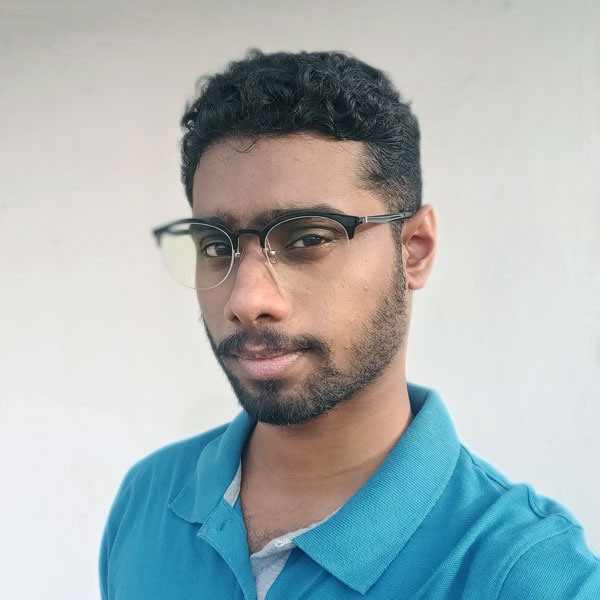
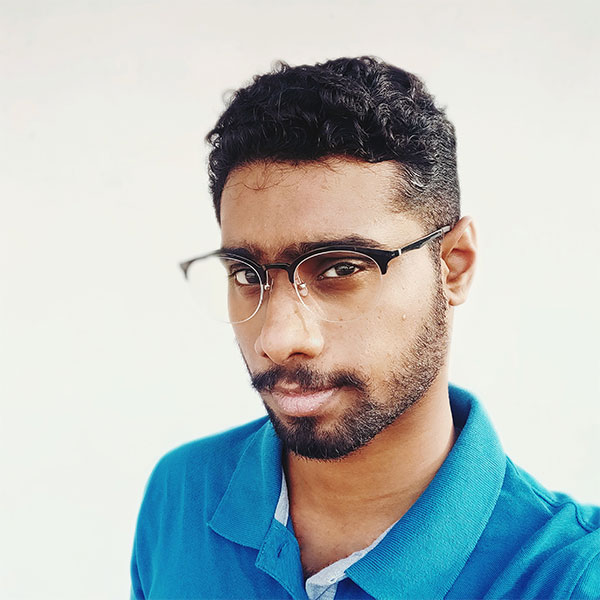
new design changes

diff --git a/index.html b/index.html
@@ -132,7 +132,7 @@
 									</div>
 								</div>
 								<div class="col-md-6">
-									<img src="./assets/images/portrait_image1.jpg" class="img-responsive img-rounded"
+									<img style="margin: auto;" src="./assets/images/portrait_image2.jpg" class="img-responsive img-rounded"
 										alt="my photo">
 								</div>
 							</div>
@@ -792,8 +792,28 @@
 					</figure>
 				</div>
 			</div>
-			<div class="col-xs-12 col-sm-12 col-md-12 col-lg-12 mix webexp">
-
+			<div class="col-xs-12 col-sm-4 col-md-4 col-lg-4 mix webexp">
+				<div class="grid" data-wow-delay=".6s">
+					<figure class="effect-bubba img-responsive" style="background: #dee4ff;">
+						<img src="assets/images/micro-interaction2.gif" alt="img01" />
+						<figcaption>
+							<div class="figcap">
+								<h2>
+									<span>Dashboard detail-view
+										<br>micro-interaction</span>
+								</h2>
+								<div class="view">
+									<a href="assets/images/micro-interaction1.gif" data-lity
+										data-lity-target="assets/images/micro-interaction1.gif">
+										<i class="fa fa-eye fa-2x"></i>
+									</a>
+								</div>
+							</div>
+						</figcaption>
+					</figure>
+				</div>
+			</div>
+			<div class="col-xs-12 col-sm-4 col-md-4 col-lg-4 mix webexp">
 				<div class="grid" data-wow-delay=".6s">
 					<figure class="effect-bubba img-responsive" style="background: #dee4ff;">
 						<img src="assets/images/micro-interaction1.gif" alt="img01" />
@@ -813,10 +833,8 @@
 						</figcaption>
 					</figure>
 				</div>
-
 			</div>
-			<!-- <div class="col-xs-12 col-sm-6 col-md-6 col-lg-6 mix webexp">
-
+			<div class="col-xs-12 col-sm-4 col-md-4 col-lg-4 mix webexp">
 				<div class="grid" data-wow-delay=".6s">
 					<figure class="effect-bubba img-responsive">
 						<img src="assets/images/micro-interaction0-upscale.gif" alt="img01" />
@@ -835,8 +853,7 @@
 						</figcaption>
 					</figure>
 				</div>
-
-			</div> -->
+			</div>
 			<div class="col-xs-12 col-sm-6 col-md-6 col-lg-6 mix webexp">
 				<div class="grid" data-wow-delay=".6s">
 					<figure class="effect-bubba img-responsive">
